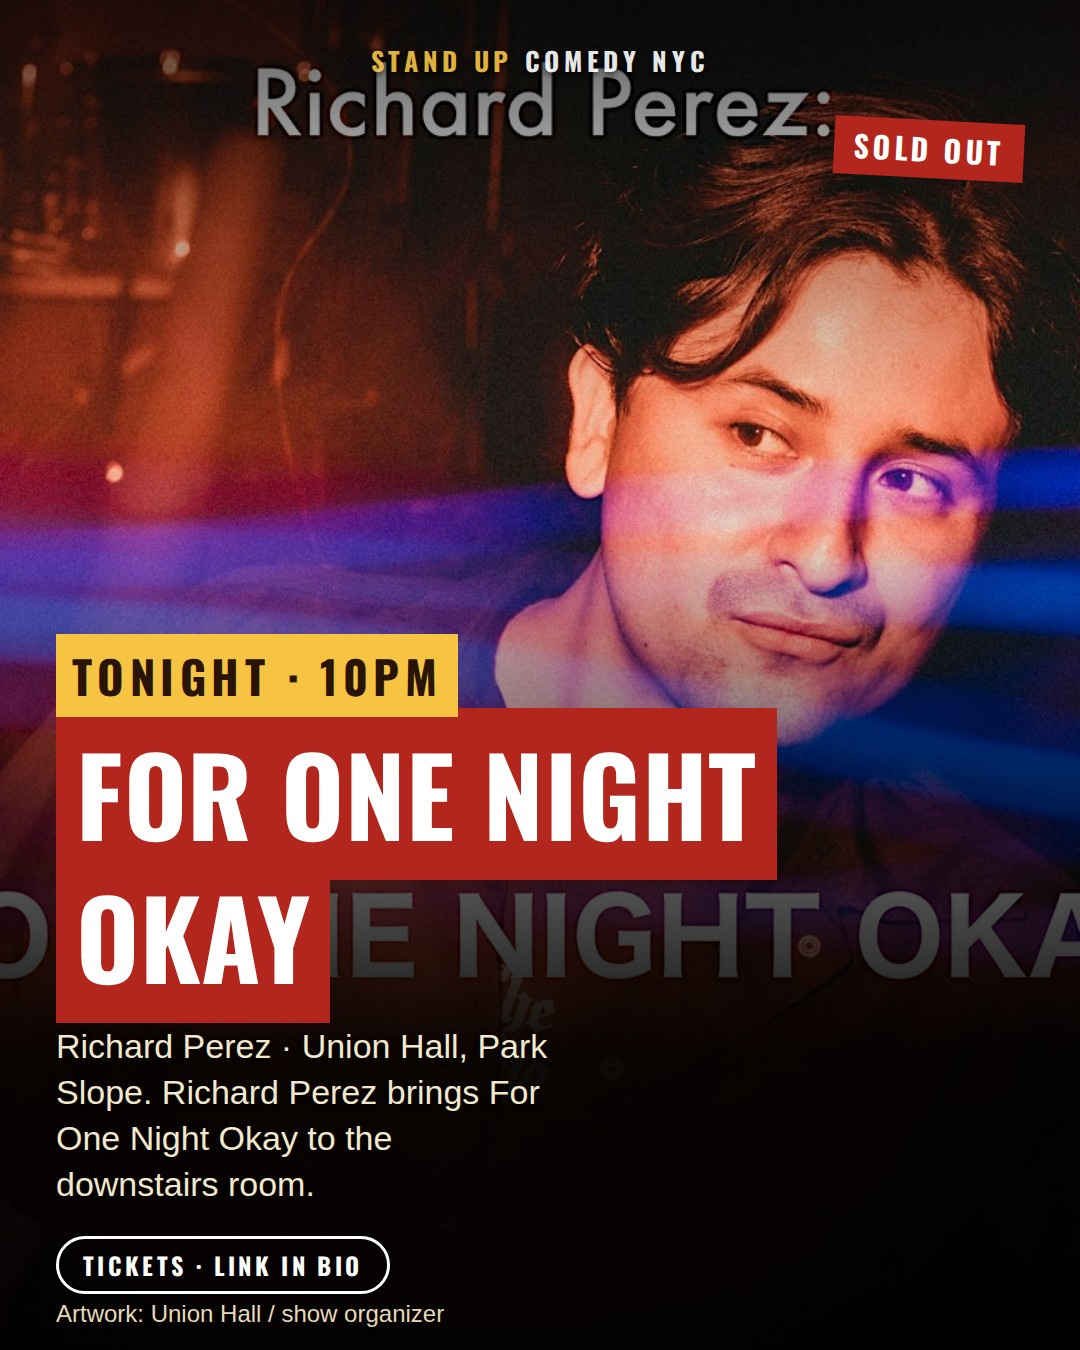
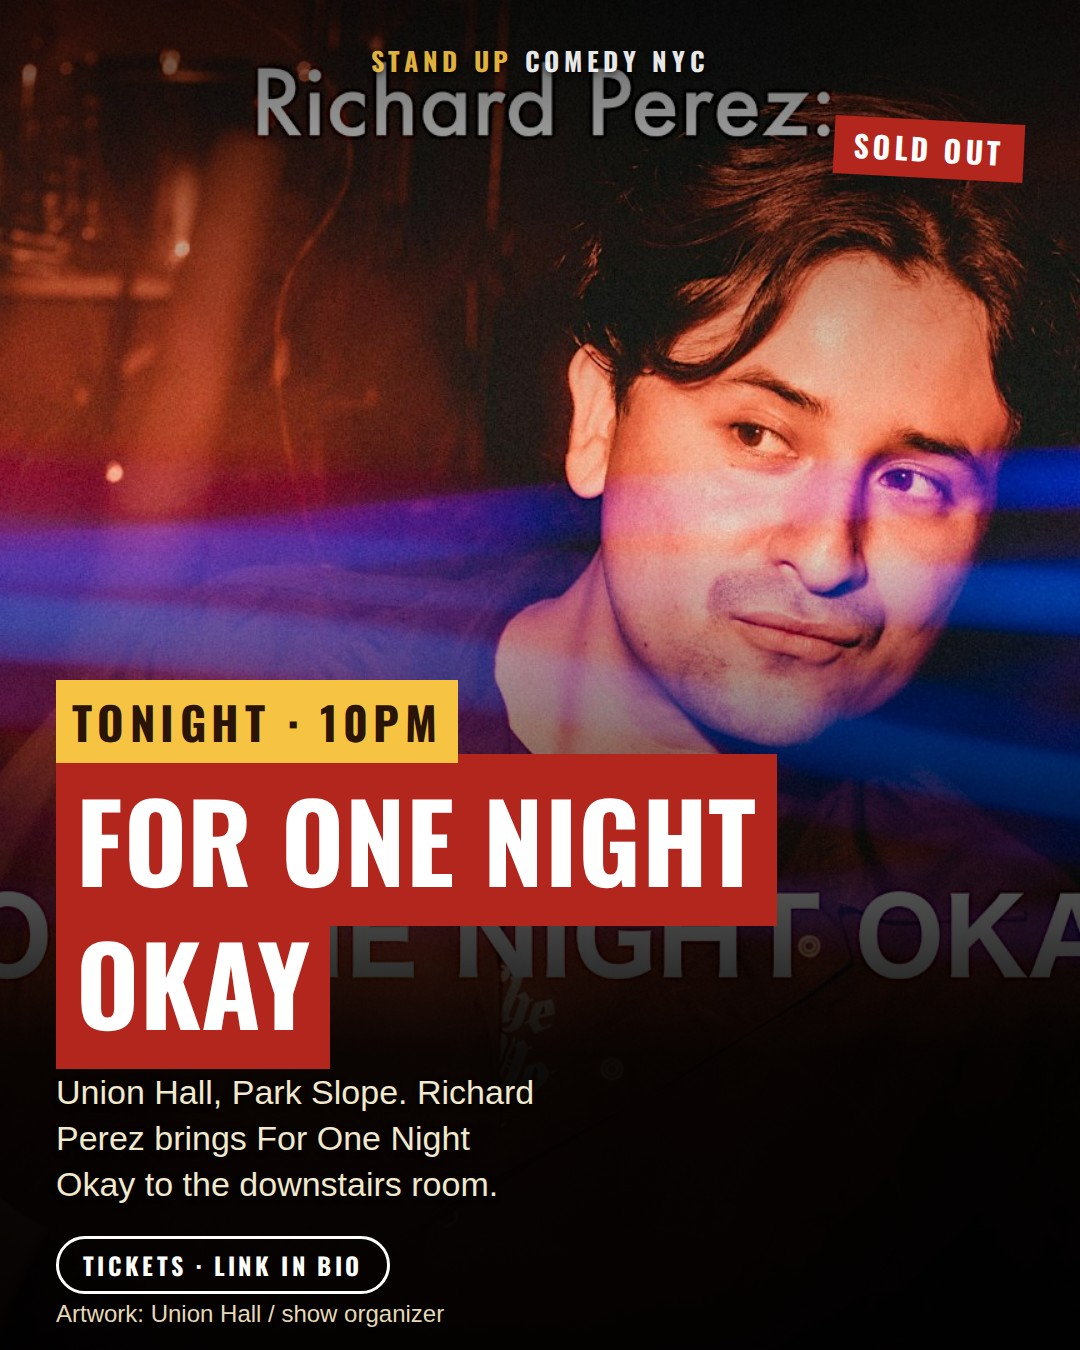
IG photo card: no performer prefix when the blurb already names them

Changed region(s): [[0.0306, 0.4667, 0.7333, 0.9022]]

diff --git a/scripts/ig-card.js b/scripts/ig-card.js
@@ -134,7 +134,7 @@ function photoCard(p) {
   const t = splitTitle(p.title);
   return `${base}<div class="photo" style="background-image:url(${bg})"></div><div class="pw"><div class="lock">Stand Up <span>Comedy NYC</span></div>${tag}
 <div class="hl" style="--hs:${hlSize(t.what)}px"><i class="gold">${esc(when)}</i><br><i>${esc(t.what)}</i></div>
-<p class="dek">${t.who ? esc(t.who) + ' · ' : ''}${esc(dek(p))}</p>
+<p class="dek">${t.who && !dek(p).includes(t.who) ? esc(t.who) + ' · ' : ''}${esc(dek(p))}</p>
 <div class="pill">Tickets · link in bio</div><div class="credit2">${esc(p.poster.credit || '')}</div></div>`;
 }
 function photoCover(label, day, list) {
